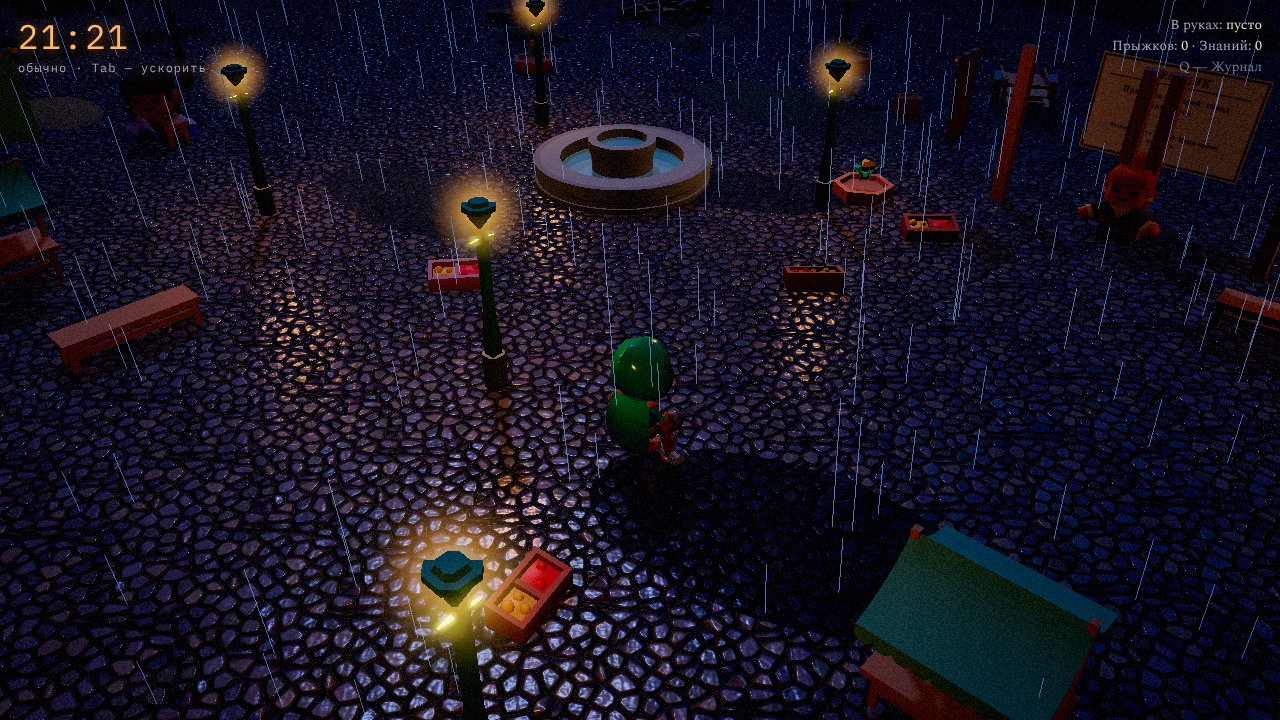
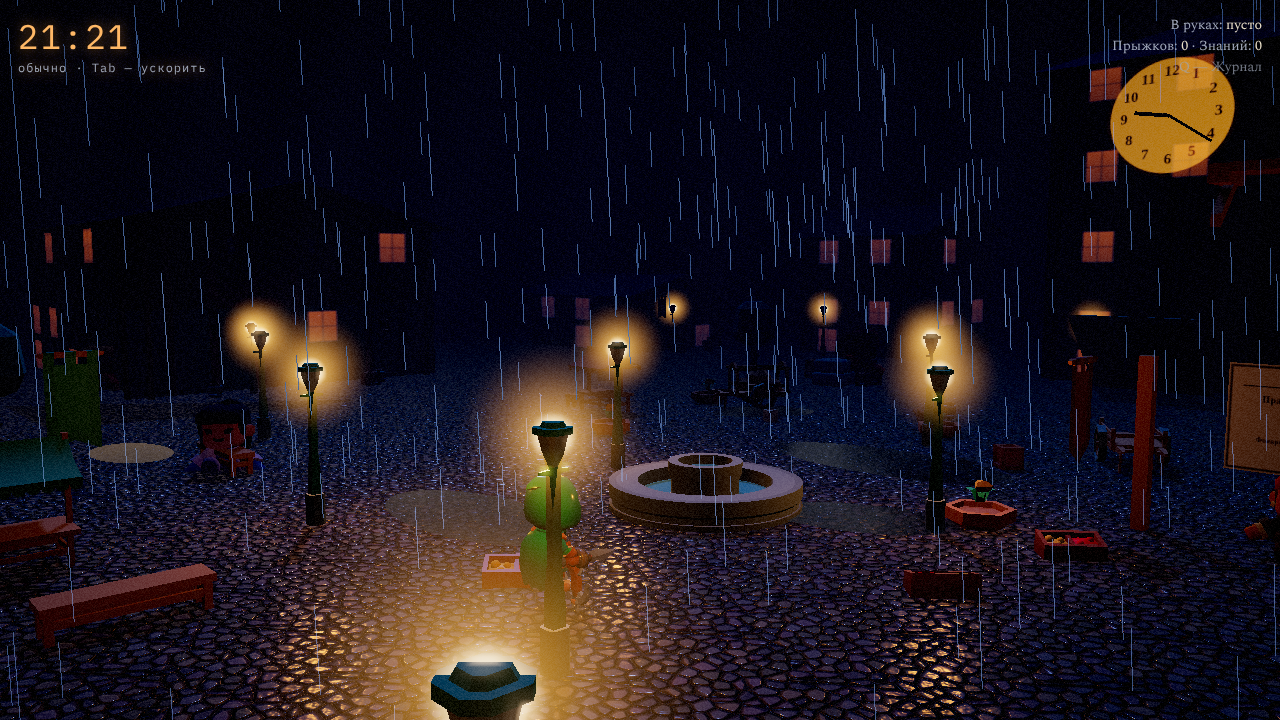
Скриншот площади этапа 4 (пресет камеры)
Claude-Session: https://claude.ai/code/session_013J4WMEmNkw4afKYKJT2p9P

diff --git a/src/main.ts b/src/main.ts
@@ -21,7 +21,7 @@ async function shotPreset(name: string) {
   game.ui.setBanner(''); game.ui.hint.textContent = ''; game.ui.toastEl.remove(); game.ui.banner.style.display = 'none';
   const cam = (p: number[], tg: number[]) => { game.freeCam = { p, t: tg }; };
   const present: Record<string, () => void> = {
-    plaza: () => { place(6, 6, 0, 60); game.camYaw = 0.75; game.camPitch = 0.5; game.camDist = 13; },
+    plaza: () => { place(2, 5, 0, 60); cam([11, 4.2, 12], [-8, 1.6, -6]); },
     quay: () => { place(20, 16, 0, 600); cam([27, 3.2, 24], [12, 1.5, 15]); game.camYaw = 0.3; },
     tavern: () => { place(-26.5, 0.8, 0, 700); game.camYaw = 0.35; game.camPitch = 1.05; game.camDist = 7.5; },
     window: () => { place(0, -28.6, 2, 5); game.camYaw = 0.2; game.camPitch = 0.6; game.camDist = 6; },
